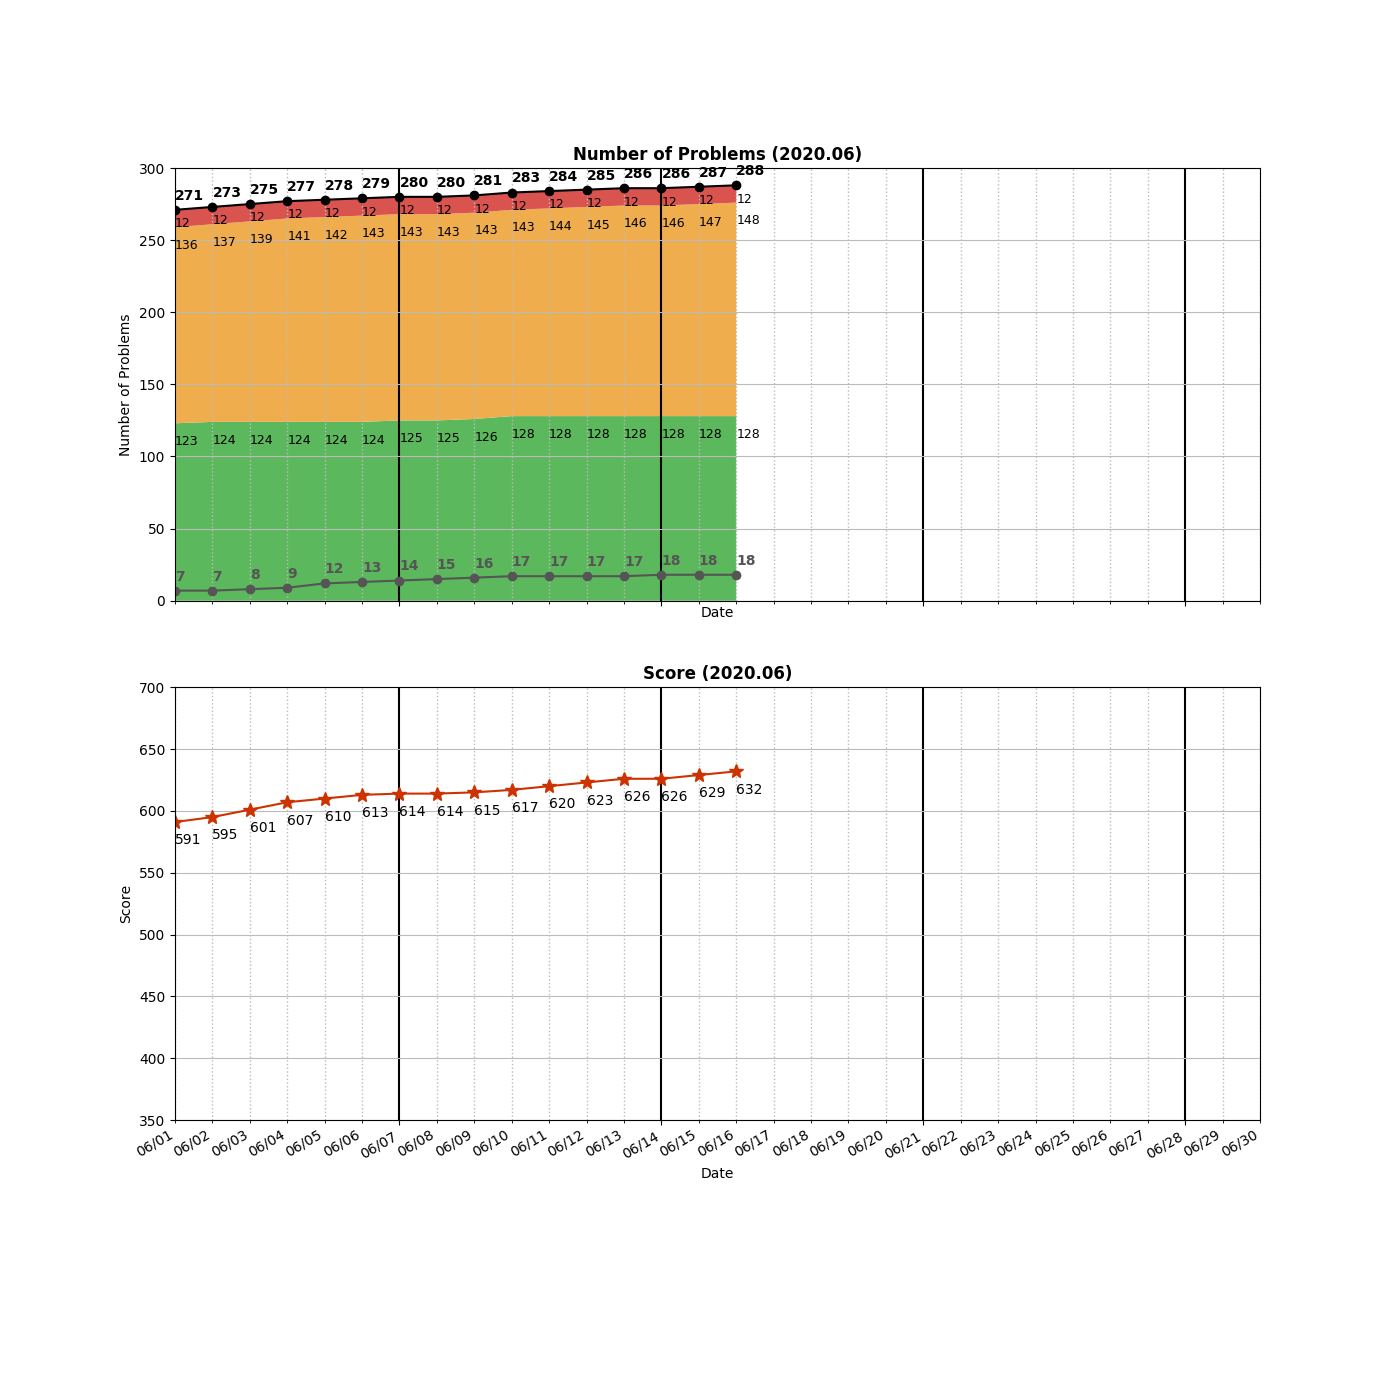
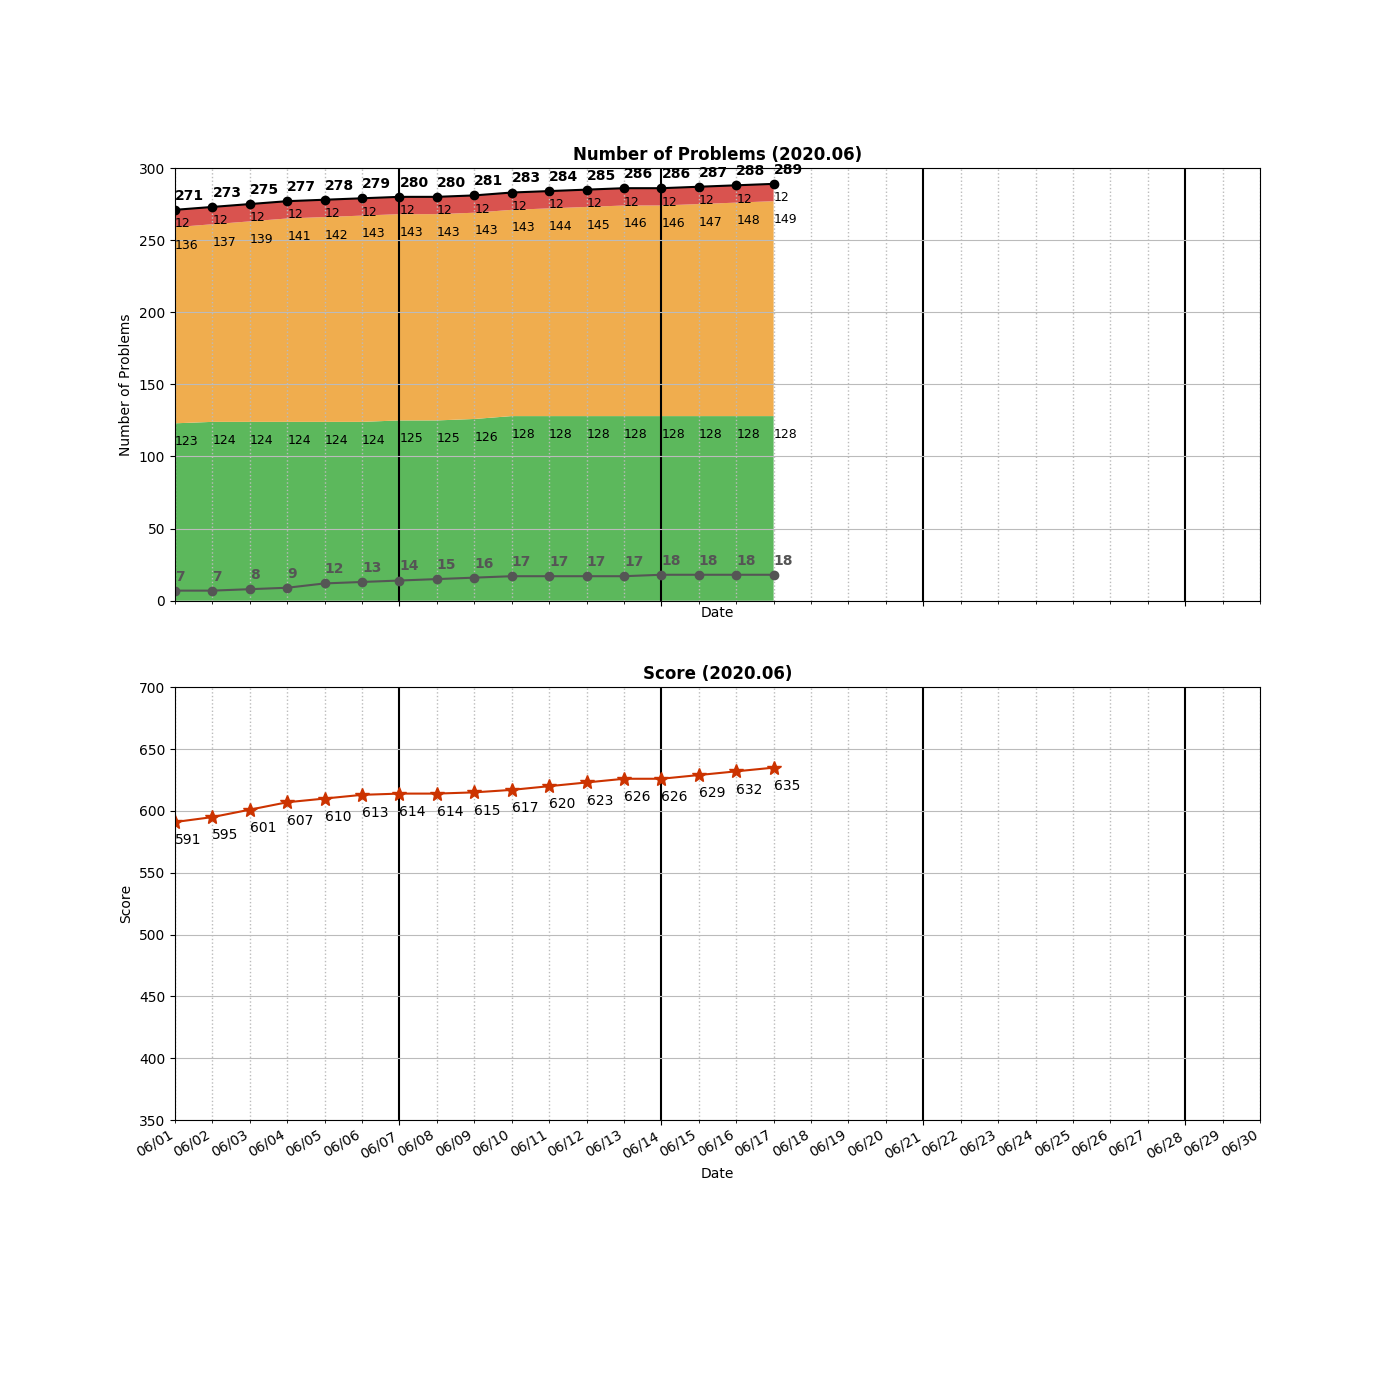
Added _0314_BinaryTreeVerticalOrderTraversal.py

Changed region(s): [[0.5221, 0.1229, 0.5529, 0.43]]

diff --git a/algo/tree/_0314_BinaryTreeVerticalOrderTraversal.py b/algo/tree/_0314_BinaryTreeVerticalOrderTraversal.py
@@ -1,0 +1,38 @@
+# Definition for a binary tree node.
+# class TreeNode:
+#     def __init__(self, val=0, left=None, right=None):
+#         self.val = val
+#         self.left = left
+#         self.right = right
+class Solution:
+    
+    # DFS with sorting [O(N + WlogW + WHlogH), 80%]
+    def verticalOrder(self, root: TreeNode) -> List[List[int]]:
+
+        if not root:
+            return []
+        ans = []
+        
+        idxToVal = collections.defaultdict(list)
+        self.helper(root, idxToVal, 0, 0)
+        
+        for key in sorted(idxToVal):
+            verts = sorted(idxToVal[key], key = lambda x:x[0])  # IMPORTANT: need to specify the key
+                                                                # Without the key, it will sort by x[0] first than x[1] (maybe)
+                                                                # However, we want to sort by x[0] but keep others in insertion order
+            tmp = []
+            for node in verts:
+                tmp.append(node[1])
+
+            ans.append(tmp)
+        return ans
+            
+    def helper(self, node, idxToVal, idx, layer):
+        if not node:
+            return
+        
+        # Pre-order DFS
+        idxToVal[idx].append([layer, node.val])
+        self.helper(node.left, idxToVal, idx - 1, layer + 1)
+        self.helper(node.right, idxToVal, idx + 1, layer + 1)
+        

diff --git a/README.md b/README.md
@@ -273,6 +273,7 @@ algo
 │   ├── _0270_ClosestBinarySearchTreeValue.py
 │   ├── _0297_SerializeAndDeserializeBinaryTree.py
 │   ├── _0298_BinaryTreeLongestConsecutiveSequence.py
+│   ├── _0314_BinaryTreeVerticalOrderTraversal.py
 │   ├── _0366_FindLeavesOfBinaryTree.py
 │   ├── _0429_N-aryTreeLevelOrderTraversal.py
 │   ├── _0501_FindModeInBinarySearchTree.py
@@ -312,7 +313,7 @@ algo
     ├── _0127_WordLadder_TLE.py
     └── _0127_WordLadder_wrong.py
 
-25 directories, 286 files
+25 directories, 287 files
 
 =====================================
 ============= Local Repo ============
@@ -478,6 +479,7 @@ _0299_BullsAndCows.py
 _0300_LongestIncreasingSubsequence.py
 _0305_NumberOfIslands2.py
 _0313_SuperUglyNumber.py
+_0314_BinaryTreeVerticalOrderTraversal.py
 _0322_CoinChange.py
 _0328_OddEvenLinkedList.py
 _0338_CountingBits.py
@@ -603,7 +605,7 @@ _1358_NumberOfSubstringsContainingAllThreeCharacters.py
 _1391_CheckIfThereIsAValidPathInAGrid.py
 _1427_PerformStringShifts.py
 =====================================
-Num of Python Practice:  285
+Num of Python Practice:  286
 
 
 =====================================
@@ -769,6 +771,7 @@ Num of Python Practice:  285
  0300 Longest Increasing Subsequence
  0305 Number of Islands II
  0313 Super Ugly Number
+ 0314 Binary Tree Vertical Order Traversal
  0322 Coin Change
  0328 Odd Even Linked List
  0338 Counting Bits
@@ -899,10 +902,10 @@ Num of Python Practice:  285
  1427 Perform String Shifts
 =====================================
 Solved / Total (Easy)  :  128 /  415
-Solved / Total (Medium):  148 /  757
+Solved / Total (Medium):  149 /  757
 Solved / Total (Hard)  :   12 /  311
-Solved / Total (All)   :  288 / 1483
-Total Score            :  632
+Solved / Total (All)   :  289 / 1483
+Total Score            :  635
 =====================================
 
 ```
